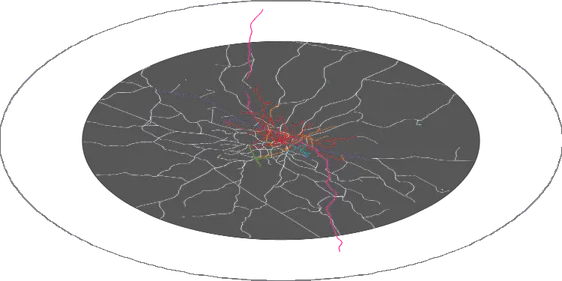
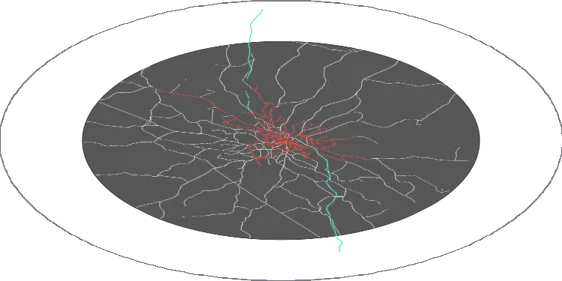
London map opening: AADRL colours for chapter 5, phone legends clear of the caption (v3.46.1)
- Chapter 5 in AADRL colours: Green Belt and AONB grey-white, national rail white,
  Underground and other city lines one red (the 70 km circle's #E8463A), HS1 / HS2
  cyan #3fe0c5; plates regenerated from the data by tools/intro/plates.py (the
  same layers in chapters 2 and 6 follow); labels and legend match; the map's
  own planning layers unchanged.
- Phone: notes span the screen width, the frame leaves room for the tallest note,
  so a legend no longer runs into the caption on a short phone; the HS2 label
  stays inside the screen.
- Pictures carry the script's ?v=, so a phone never mixes new legends with
  cached old pictures. v3.46.0 -> v3.46.1, README, tests.

Claude-Session: https://claude.ai/code/session_01PLqW2Xk3LdygEeKzAzxarX

diff --git a/incubator/google-map-live/scripts/intro.js b/incubator/google-map-live/scripts/intro.js
@@ -36,6 +36,8 @@
   var calm = false; try { calm = matchMedia('(prefers-reduced-motion: reduce)').matches; } catch (e) { /* older browsers */ }
   var small = false; try { small = Math.min(innerWidth, innerHeight) < 600 || matchMedia('(pointer: coarse)').matches && Math.min(screen.width, screen.height) < 600; } catch (e) { small = false; }
   var DIR = 'assets/intro/' + (small ? 's' : 'l') + '/';
+  /* the pictures carry this script's own ?v=, so a phone never shows new legends over cached old pictures */
+  var IV = ((document.currentScript && /[?&]v=([^&]+)/.exec(document.currentScript.src)) || [])[1] || '';
   var CAT = '../../assets/catalogue/';
 
   /* when each chapter begins, in seconds; the cover is chapter 0 */
@@ -72,7 +74,7 @@
   function delay(e, d, o) { e.style.setProperty('--d', (d - SEEK).toFixed(2) + 's'); if (o !== undefined) e.style.setProperty('--o', (o - SEEK).toFixed(2) + 's'); return e; }
   function plate(name, anim, d) {
     var b = D.plates[name], im = mk('img', 'lmi-pl lmi-' + (anim || 'in'));
-    im.alt = ''; im.decoding = 'async'; im.draggable = false; im.src = DIR + name + '.webp';
+    im.alt = ''; im.decoding = 'async'; im.draggable = false; im.src = DIR + name + '.webp' + (IV ? '?v=' + IV : '');
     im.style.left = pct(b[0]); im.style.top = pct(b[1]); im.style.width = pct(b[2]); im.style.height = pct(b[3]);
     return delay(im, d);
   }
@@ -172,7 +174,7 @@
       var e = label(D.pts[q[0]], 'lmi-hs', t + 3.3, q[3]); e.appendChild(mk('b', null, q[1])); var m = mk('span', 'lmi-mono', q[2]); m.setAttribute('data-no-translate', ''); e.appendChild(m); c.appendChild(e);
     });
     var n5 = note('R', t + 0.5);
-    [['#849474', 'Green Belt 5,065 km²', 'l'], ['#bed2aa', 'AONB · 5 landscapes', 'd'], ['#e1e1e4', 'National Rail', 'l'], ['#e32017', 'Underground', 'l'], ['#ff2d95', 'HS1 · HS2', 'l']].forEach(function (q) {
+    [['#c8c8cd', 'Green Belt 5,065 km²', 'l'], ['#96969e', 'AONB · 5 landscapes', 'd'], ['#e1e1e4', 'National Rail', 'l'], ['#E8463A', 'Underground and other lines', 'l'], ['#3fe0c5', 'HS1 · HS2', 'l']].forEach(function (q) {
       var r = mk('div', 'lmi-key'), sw = mk('i', 'lmi-kl' + (q[2] === 'd' ? ' lmi-kd' : '')); sw.style.color = q[0]; sw.style.background = q[2] === 'd' ? 'none' : q[0];
       r.appendChild(sw); r.appendChild(mk('span', null, q[1])); n5.appendChild(r);
     });
@@ -227,10 +229,18 @@
     /* the square frame, as large as its room allows; on a narrow screen it stands at the top, its notes under it */
     function fit() {
       var r = map.getBoundingClientRect(); if (!(r.width > 0 && r.height > 0)) return;
-      var narrow = r.width < 760, side = narrow ? 0 : 230;
-      var w = Math.max(120, Math.min(r.width - 2 * side, narrow ? r.height - 150 : r.height, narrow ? r.width : 1e9));
+      var narrow = r.width < 760, side = narrow ? 0 : 230, room = 140;
+      /* a narrow screen: the notes run the whole width under the frame (not just the frame's width), and the frame leaves
+         room for the tallest of them, so a legend never runs into the caption on a short phone */
+      if (narrow) {
+        box.style.setProperty('--nw', r.width + 'px'); var nh = 0;
+        box.querySelectorAll('.lmi-note').forEach(function (n) { nh = Math.max(nh, n.offsetHeight); });
+        room = Math.max(120, nh + 14);
+      }
+      var w = Math.max(120, Math.min(r.width - 2 * side, narrow ? r.height - room - 10 : r.height, narrow ? r.width : 1e9));
       stage.style.width = w + 'px'; stage.style.height = w + 'px';
-      stage.style.left = (r.width - w) / 2 + 'px'; stage.style.top = (narrow ? Math.max(0, (r.height - w - 140) / 2) : (r.height - w) / 2) + 'px';
+      stage.style.left = (r.width - w) / 2 + 'px'; stage.style.top = (narrow ? Math.max(0, (r.height - w - room) / 2) : (r.height - w) / 2) + 'px';
+      if (narrow) box.style.setProperty('--nx', -(r.width - w) / 2 + 'px');
       box.classList.toggle('lmi-narrow', narrow); box.classList.toggle('lmi-small', w < 480);
     }
 

diff --git a/incubator/google-map-live/scripts/app.js b/incubator/google-map-live/scripts/app.js
@@ -1,12 +1,12 @@
 // London map · the page's own code: the map, its layers, the panel and the Google / OSM switch.
 // Was the inline <script type="module"> of index.html until v3.39.0; computation without the page lives in map_core.js.
-import {createFloodDetailLoader,DETAIL_MIN_ZOOM,DETAIL_MAX_ZOOM,DETAIL_TILE_SIZE} from './flood_detail.js?v=3.46.0';
-import {createPlaceSearch} from './place_search.js?v=3.46.0';
-import {createDrainageDisplayLoader,AREA_MIN_ZOOM,AREA_MAX_ZOOM,AREA_TILE_SIZE} from './drainage_display.js?v=3.46.0';
-import {createTerrainLocalLoader,TERRAIN_MIN_ZOOM,TERRAIN_MAX_ZOOM,TERRAIN_TILE_SIZE} from './terrain_local.js?v=3.46.0';
-import {createBasemapThemeController,normaliseBasemapTheme,tintPalette,BASEMAP_THEMES} from './osm_basemap_themes.js?v=3.46.0';
-import {createPlanningLayers,reliefStops,RELIEF_RAMPS,SPEED_STOPS} from './planning_layers.js?v=3.46.0';
-import {FOCUS70_CENTER,FOCUS70_RADIUS_M,TERRAIN_BOUNDS,DRAINAGE_GRID_SIZE,DRAINAGE_3857,mercator3857ToLngLat,drainageTileCoordinates,contourMajorIntervalFor,networkCoordinates,makeCircleGeoJson,contourWorkerSource,mercatorFromLngLat,formatNetworkThreshold,normaliseFloodSelectionRing} from './map_core.js?v=3.46.0';
+import {createFloodDetailLoader,DETAIL_MIN_ZOOM,DETAIL_MAX_ZOOM,DETAIL_TILE_SIZE} from './flood_detail.js?v=3.46.1';
+import {createPlaceSearch} from './place_search.js?v=3.46.1';
+import {createDrainageDisplayLoader,AREA_MIN_ZOOM,AREA_MAX_ZOOM,AREA_TILE_SIZE} from './drainage_display.js?v=3.46.1';
+import {createTerrainLocalLoader,TERRAIN_MIN_ZOOM,TERRAIN_MAX_ZOOM,TERRAIN_TILE_SIZE} from './terrain_local.js?v=3.46.1';
+import {createBasemapThemeController,normaliseBasemapTheme,tintPalette,BASEMAP_THEMES} from './osm_basemap_themes.js?v=3.46.1';
+import {createPlanningLayers,reliefStops,RELIEF_RAMPS,SPEED_STOPS} from './planning_layers.js?v=3.46.1';
+import {FOCUS70_CENTER,FOCUS70_RADIUS_M,TERRAIN_BOUNDS,DRAINAGE_GRID_SIZE,DRAINAGE_3857,mercator3857ToLngLat,drainageTileCoordinates,contourMajorIntervalFor,networkCoordinates,makeCircleGeoJson,contourWorkerSource,mercatorFromLngLat,formatNetworkThreshold,normaliseFloodSelectionRing} from './map_core.js?v=3.46.1';
 // Map rendering must not depend on a single CDN. Heavy analysis modules are
 // loaded only AFTER the basemap has started.
 let maplibregl;
@@ -27,7 +27,7 @@ try {
   }
 }
 
-const APP_VERSION='3.46.0';
+const APP_VERSION='3.46.1';
 // Keep the header's version derived from exactly the same runtime build id.
 document.getElementById('appVersionLabel').textContent='OpenStreetMap / OpenFreeMap · v'+APP_VERSION;
 const CITY_BUILDINGS_SOURCE='osm-city-buildings-source';
@@ -2258,7 +2258,7 @@ function initOSM(){
     initPlanningLayers();
     // The site tools (selection → Tensor Studio) load after the basemap; a failure never blocks the map.
     $('siteDraw').disabled=true;
-    import('./tensor_site_ui.js?v=3.46.0')
+    import('./tensor_site_ui.js?v=3.46.1')
       .then(({createTensorSiteUI})=>{
         if(siteUI)return;
         siteUI=createTensorSiteUI({map:osmMap,maplibregl,assetUrl,demBounds:DRAINAGE_3857,demWidth:DRAINAGE_3857.baseWidth50m,demHeight:DRAINAGE_3857.baseHeight50m,say,getMapTheme:()=>basemapTheme});
@@ -2574,7 +2574,7 @@ $('reliefShade').addEventListener('input',e=>{$('reliefShadeValue').textContent=
 $('reliefShade').addEventListener('change',e=>planning?.set('relief',{shade:Number(e.target.value)}));
 drawReliefKey();
 
-// v3.46.0: 3D relief. Trees, street vehicles and building shadows are drawn as their own objects on flat ground and would be buried
+// v3.46.1: 3D relief. Trees, street vehicles and building shadows are drawn as their own objects on flat ground and would be buried
 // by the risen ground, so they are switched off while it is on and come back, as they were, when it goes off.
 const RELIEF3D_HOLDS=['urbanTreeToggle','streetVehicleToggle','buildingShadowToggle'];
 let relief3dHeld=null;

diff --git a/incubator/google-map-live/index.html b/incubator/google-map-live/index.html
@@ -13,23 +13,23 @@
   <title>London map</title>
   <!-- One language for every app: the shared choice (l2100.lang) is given to this page's own key before it reads it. -->
   <script src="../../shared/ui/lang.js?v=1" data-key="londonMap.uiLanguage" data-button='#uiLanguageSwitch button[data-language="{lang}"]'></script>
-  <script type="module" src="./scripts/ui_language.js?v=3.46.0"></script>
+  <script type="module" src="./scripts/ui_language.js?v=3.46.1"></script>
 
   <link rel="stylesheet" href="https://unpkg.com/maplibre-gl@6.13.0/dist/maplibre-gl.css" onerror="this.onerror=null;this.href='https://cdn.jsdelivr.net/npm/maplibre-gl@6.13.0/dist/maplibre-gl.css'">
 
-  <link rel="stylesheet" href="./styles/app.css?v=3.46.0">
+  <link rel="stylesheet" href="./styles/app.css?v=3.46.1">
 <script>if(!/[#&?]noskin\b/.test(location.href))document.documentElement.classList.add("l2ui");</script>
 <link rel="stylesheet" href="../../shared/ui/tokens.css?v=1">
 <link rel="stylesheet" href="../../shared/ui/studio.css?v=1">
 <link rel="stylesheet" href="./styles/skin.css?v=2">
-<link rel="stylesheet" href="./styles/intro.css?v=3.46.0">
+<link rel="stylesheet" href="./styles/intro.css?v=3.46.1">
 <link rel="stylesheet" href="../../shared/ui/swatches.css?v=1">
 <link rel="stylesheet" href="../../shared/ui/phone.css?v=2">
 <link rel="stylesheet" href="../../shared/ui/chain.css?v=2"><script src="../../shared/ui/chain.js?v=4"></script>
 </head>
 <body>
 <!-- (27 Nov 2026) the opening film, over the page while the map loads: scripts/intro.js, pictures in assets/intro/ -->
-<script src="./scripts/intro_data.js?v=3.46.0"></script><script src="./scripts/intro.js?v=3.46.0"></script>
+<script src="./scripts/intro_data.js?v=3.46.1"></script><script src="./scripts/intro.js?v=3.46.1"></script>
   <div id="googleMap"></div>
   <div id="osmMap"></div>
   <div id="osmRecovery" class="osmRecovery" role="alert">Map loading slowly. <a href="./map-safe.html">Open 2D map without WebGL</a></div>
@@ -167,7 +167,7 @@
     <div class="head">
       <div>
         <div class="title">London map</div>
-        <div class="sub" id="appVersionLabel">OpenStreetMap / OpenFreeMap · v3.46.0</div>
+        <div class="sub" id="appVersionLabel">OpenStreetMap / OpenFreeMap · v3.46.1</div>
         <div class="providerBadge" id="providerBadge">OpenStreetMap · no API key</div>
         <button id="introReplay" class="introReplay" type="button" title="Play the opening film again">▶ Opening</button>
       </div>
@@ -665,7 +665,7 @@
 
   <div id="coords" class="coords">Lat — / Lng — / Zoom —</div>
 
-<script type="module" src="./scripts/app.js?v=3.46.0"></script>
+<script type="module" src="./scripts/app.js?v=3.46.1"></script>
 <script>/* (26 Nov 2026) the chain row, the same in every catalogue app (shared/ui/chain.js): after the London map comes Loop City step 1.
    Nothing is carried on this step. Selecting a site and opening Tensor Studio over it is as it was. Framed by the VR page the row is not shown. */
 (function () { var p = document.getElementById('panel'), h = p && p.querySelector('.head'); if (!window.L2Chain || !h) return;

diff --git a/incubator/google-map-live/styles/intro.css b/incubator/google-map-live/styles/intro.css
@@ -61,11 +61,12 @@
 .lmi-place.lmi-sl { transform:translate(calc(-100% - 14px), -50%); }
 .lmi-place b { font-size:13px; }
 .lmi-ring .lmi-dot { width:12px; height:12px; background:none; border:1.5px solid #fff; box-shadow:none; right:-16px; margin-top:-6px; }
-.lmi-hs b { color:#ff5aa8; font-size:13px; }
-.lmi-hs span { color:rgba(255,140,190,.85); margin-top:2px; }
+.lmi-hs b { color:#3fe0c5; font-size:13px; }   /* AADRL: grey-white ground, red city lines, cyan high speed */
+.lmi-hs span { color:rgba(63,224,197,.75); margin-top:2px; }
 .lmi-hs.lmi-sl { transform:translate(calc(-100% - 10px), -120%); }
 .lmi-hs.lmi-sr { transform:translate(10px, 20%); }
 #lmIntro.lmi-small .lmi-hs.lmi-sr { transform:translate(calc(-100% - 4px), 45%); text-align:right; }   /* on a phone: inside the screen */
+#lmIntro.lmi-small .lmi-hs.lmi-sl { transform:translate(4px, 45%); }                                      /* HS2 too (it ran off the left edge) */
 .lmi-name b { font-size:14px; } .lmi-name span { margin-top:3px; }
 
 /* the chain, chapter 6 */
@@ -103,8 +104,9 @@
 .lmi-ends { display:flex; justify-content:space-between; font:500 9.5px/1 ui-monospace,'SF Mono',Menlo,monospace; color:rgba(255,255,255,.55); margin:5px 0 8px; }
 #lmIntro.lmi-narrow .lmi-noteR, #lmIntro.lmi-narrow .lmi-noteL { top:calc(100% + 12px); bottom:auto; right:auto; text-align:left; width:48%; }
 #lmIntro.lmi-narrow .lmi-noteL b.lmi-mono { white-space:normal; }
-#lmIntro.lmi-narrow .lmi-noteL { left:0; } #lmIntro.lmi-narrow .lmi-noteR { left:0; width:100%; }
-#lmIntro.lmi-narrow .lmi-noteL ~ .lmi-noteR { left:52%; width:48%; }               /* two notes: side by side */
+/* under the frame, across the whole width of the screen (fit() sets --nx: the frame's left edge, --nw: the width) */
+#lmIntro.lmi-narrow .lmi-noteL { left:var(--nx,0px); width:calc(var(--nw,100%) * .46); } #lmIntro.lmi-narrow .lmi-noteR { left:var(--nx,0px); width:var(--nw,100%); }
+#lmIntro.lmi-narrow .lmi-noteL ~ .lmi-noteR { left:calc(var(--nx,0px) + var(--nw,100%) * .5); width:calc(var(--nw,100%) * .5); }   /* two notes: side by side */
 #lmIntro.lmi-narrow .lmi-note .lmi-key { display:inline-flex; margin:1px 10px 1px 0; }  /* keys run on in a row */
 #lmIntro.lmi-narrow .lmi-ramp { width:100%; }
 #lmIntro.lmi-narrow .lmi-note { font-size:10.5px; } #lmIntro.lmi-narrow .lmi-note .lmi-big { font-size:20px; }

diff --git a/incubator/google-map-live/scripts/ui_chinese_dictionary.js b/incubator/google-map-live/scripts/ui_chinese_dictionary.js
@@ -965,6 +965,7 @@ export const CHINESE_UI = {
   "Rail services": "铁路服务",
   "National Rail": "国铁",
   "Underground": "地铁",
+  "Underground and other lines": "地铁及其他城市线路",
   "Overground": "地上铁",
   "Elizabeth line": "伊丽莎白线",
   "Trams": "有轨电车",
@@ -999,7 +1000,7 @@ export const CHINESE_UI = {
   "The ground itself is raised from the open height tiles (about 30 m), and the other layers lie on it: height colors, flood risk, boundaries, rail, the 3D buildings. London is low, so the heights are multiplied (×3 to ×5 reads well). Outside the 70 km circle the ground stays flat. Trees, street vehicles and building shadows are switched off while it is on: they are drawn on flat ground and would be buried.": "地面本身按开放高程瓦片（约 30 m）隆起，其他图层贴在上面：地形着色、洪水风险、边界、铁路、三维建筑。伦敦地势低，所以高度要乘以倍数（×3 到 ×5 比较清楚）。70 km 圈外地面保持平的。打开时树木、街道小车和建筑阴影会自动关闭：它们画在平地上，会被隆起的地面埋住。",
   "Visible · tilt the map to see it · trees, vehicles and building shadows are off meanwhile": "已显示 · 倾斜地图可见 · 期间树木、小车和建筑阴影关闭",
   "Trees, street vehicles and building shadows are off while 3D relief is on.": "3D 地形起伏打开时，树木、街道小车和建筑阴影保持关闭。",
-  // v3.46.0 · the opening film (scripts/intro.js)
+  // v3.46.1 · the opening film (scripts/intro.js)
   "London map · opening": "伦敦地图 · 开场",
   "Skip": "跳过",
   "Enter ›": "进入 ›",

diff --git a/incubator/google-map-live/scripts/planning_layers.js b/incubator/google-map-live/scripts/planning_layers.js
@@ -6,7 +6,7 @@
 // Nothing is loaded until a layer is first switched on.
 import {createReliefLoader,reliefTileUrl,reliefStops,RELIEF_RAMPS,RELIEF_MIN_ZOOM,RELIEF_MAX_ZOOM,RELIEF_TILE_SIZE,
   DEM_TILE_URL,DEM_MAX_ZOOM}
-  from './relief_local.js?v=3.46.0';
+  from './relief_local.js?v=3.46.1';
 
 export {RELIEF_RAMPS,reliefStops};
 export const PLANNING_PREFIX='l2100-';
@@ -21,7 +21,7 @@ const GREEN_BELT='#849474',AONB='#4f6b45';
 const GB_EDGE=[1.3,2.2,3],AONB_EDGE=[1.2,1.8,2.4];
 
 const RELIEF='l2100-relief';
-// v3.46.0: 3D relief. The ground itself rises (MapLibre terrain) inside the study circle; every draped layer follows.
+// v3.46.1: 3D relief. The ground itself rises (MapLibre terrain) inside the study circle; every draped layer follows.
 const DEM='l2100-dem';
 export const RELIEF3D_RANGE=[1,8,0.5];   // exaggeration: least, most, step (London is low: 1 is hard to see)
 const GB_SOURCE='l2100-green-belt',GB_FILL='l2100-green-belt-fill',GB_LINE='l2100-green-belt-line';

diff --git a/incubator/google-map-live/scripts/relief_local.js b/incubator/google-map-live/scripts/relief_local.js
@@ -12,7 +12,7 @@ export const RELIEF_RAMPS={
 };
 // The heights of the twenty colour steps: closer together near sea level.
 export const reliefStops=top=>RELIEF_RAMPS.classic.map((_,i)=>-3+(top+3)*Math.pow(i/19,1.5));
-// 3D relief (v3.46.0): the heights themselves, flat outside the study circle, for MapLibre's terrain.
+// 3D relief (v3.46.1): the heights themselves, flat outside the study circle, for MapLibre's terrain.
 export const DEM_TILE_URL='l2100-relief://dem/{z}/{x}/{y}';
 export const DEM_MAX_ZOOM=12;
 export const reliefTileUrl=({ramp,top,shade})=>
@@ -24,7 +24,7 @@ export function createReliefLoader(config){
 
   function start(){
     if(worker)return;
-    worker=new Worker(new URL('./relief_worker.js?v=3.46.0',import.meta.url),{type:'module'});
+    worker=new Worker(new URL('./relief_worker.js?v=3.46.1',import.meta.url),{type:'module'});
     worker.postMessage({type:'init',config});
     worker.onmessage=({data})=>{
       const request=pending.get(data.id);

diff --git a/incubator/google-map-live/scripts/relief_worker.js b/incubator/google-map-live/scripts/relief_worker.js
@@ -73,7 +73,7 @@ function stops(top){
   return list;
 }
 
-// ---------- 3D relief (v3.46.0): the same heights as a "terrarium" tile for MapLibre's terrain ----------
+// ---------- 3D relief (v3.46.1): the same heights as a "terrarium" tile for MapLibre's terrain ----------
 // Inside the study circle the heights are the real ones. Outside it the ground is flat (0 m), so only the study area
 // rises; over the first 2.5 km outside the circle the heights fall away smoothly, so the edge is a slope, not a wall.
 const DEM_FADE=2500;

diff --git a/incubator/google-map-live/scripts/tensor_site_ui.js b/incubator/google-map-live/scripts/tensor_site_ui.js
@@ -9,7 +9,7 @@
  * site's OSM streets, rail, water, buildings and the OS Terrain 50 elevation. Tensor Studio reads the EA
  * flood risk itself. Esc, or its "back to the London map" button, returns here with the red boundary kept.
  */
-import {openTensorStudio, closeTensorStudio} from './tensor_studio_site.js?v=3.46.0';
+import {openTensorStudio, closeTensorStudio} from './tensor_studio_site.js?v=3.46.1';
 
 const SEL_SOURCE='site-selection-source';
 const SEL_FILL='site-selection-fill';

diff --git a/incubator/google-map-live/scripts/ui_language.js b/incubator/google-map-live/scripts/ui_language.js
@@ -16,8 +16,8 @@
    switching languages always restores the source string first and never
    translates an already-translated string. */
 
-import {CHINESE_UI} from './ui_chinese_dictionary.js?v=3.46.0';
-import {ENGLISH_UI} from './ui_english_dictionary.js?v=3.46.0';
+import {CHINESE_UI} from './ui_chinese_dictionary.js?v=3.46.1';
+import {ENGLISH_UI} from './ui_english_dictionary.js?v=3.46.1';
 
 const STORAGE_KEY = 'londonMap.uiLanguage';
 const DEFAULT_LANGUAGE = 'zh';

diff --git a/incubator/google-map-live/scripts/terrain_local.js b/incubator/google-map-live/scripts/terrain_local.js
@@ -8,7 +8,7 @@ export function createTerrainLocalLoader(config){
 
   function start(){
     if(worker)return;
-    worker=new Worker(new URL('./terrain_worker.js?v=3.46.0',import.meta.url),{type:'module'});
+    worker=new Worker(new URL('./terrain_worker.js?v=3.46.1',import.meta.url),{type:'module'});
     worker.postMessage({type:'init',config});
     worker.onmessage=({data})=>{
       const request=pending.get(data.id);

diff --git a/incubator/google-map-live/tools/intro/plates.py b/incubator/google-map-live/tools/intro/plates.py
@@ -151,20 +151,20 @@ gb = json.load(open(G + 'assets/planning/green_belt.geojson'))
 im = canvas(); d = ImageDraw.Draw(im)
 for f in gb['features']:
     for poly in poly_rings(f['geometry']):
-        d.polygon([P(c) for c in poly[0]], fill=(132, 148, 116, 96))
+        d.polygon([P(c) for c in poly[0]], fill=(190, 190, 196, 80))       # AADRL: the Green Belt in grey-white (was olive)
         for hole in poly[1:]:
             d.polygon([P(c) for c in hole], fill=(0, 0, 0, 0))
 for f in gb['features']:
     for poly in poly_rings(f['geometry']):
         for ring in poly:
-            d.line([P(c) for c in ring], fill=(170, 186, 150, 255), width=2 * S2, joint='curve')
+            d.line([P(c) for c in ring], fill=(210, 210, 215, 255), width=2 * S2, joint='curve')
 finish(im, 'greenbelt')
 
 ao = json.load(open(G + 'assets/planning/aonb.geojson'))
 im = canvas(); d = ImageDraw.Draw(im)
 for f in ao['features']:
     for poly in poly_rings(f['geometry']):
-        d.polygon([P(c) for c in poly[0]], fill=(142, 162, 132, 40))
+        d.polygon([P(c) for c in poly[0]], fill=(150, 150, 158, 40))
 for f in ao['features']:
     for poly in poly_rings(f['geometry']):
         for ring in poly:
@@ -172,13 +172,15 @@ for f in ao['features']:
             run = 0.0; on = True
             for a, b in zip(pts, pts[1:]):
                 L = math.dist(a, b); run += L
-                if on: d.line([a, b], fill=(190, 210, 170, 255), width=2 * S2)
+                if on: d.line([a, b], fill=(160, 160, 168, 255), width=2 * S2)
                 if run > 10 * S2: run = 0; on = not on
 finish(im, 'aonb')
 
 rail = json.load(open(G + 'assets/planning/rail.geojson'))
-RC = {'national': (225, 225, 228), 'overground': (238, 124, 14), 'elizabeth': (105, 80, 161), 'dlr': (0, 175, 173),
-      'tram': (95, 181, 38), 'underground': (227, 32, 23)}
+# AADRL: national rail white, every other line (Underground, Overground, Elizabeth, DLR, tram) one red, the 70 km
+# circle's #E8463A (was each line's TfL colour)
+RC = {'national': (225, 225, 228), 'overground': (232, 70, 58), 'elizabeth': (232, 70, 58), 'dlr': (232, 70, 58),
+      'tram': (232, 70, 58), 'underground': (232, 70, 58)}
 kinds = {}
 for f in rail['features']:
     kinds[f['properties'].get('k')] = kinds.get(f['properties'].get('k'), 0) + 1
@@ -204,10 +206,10 @@ for f in hs['features']:
             run = 0; on = True
             for a, b in zip(pts, pts[1:]):
                 run += math.dist(a, b)
-                if on: d.line([a, b], fill=(255, 45, 149, 255), width=3 * S2)
+                if on: d.line([a, b], fill=(63, 224, 197, 255), width=3 * S2)
                 if run > 9 * S2: run = 0; on = not on
         else:
-            d.line(pts, fill=(255, 45, 149, 255), width=4 * S2, joint='curve')
+            d.line(pts, fill=(63, 224, 197, 255), width=4 * S2, joint='curve')   # HS1 / HS2: cyan, the one cool accent (was magenta)
 finish(im, 'highspeed', clip=False)
 
 gl = json.load(open(G + 'assets/greater_london_outline.geojson'))
